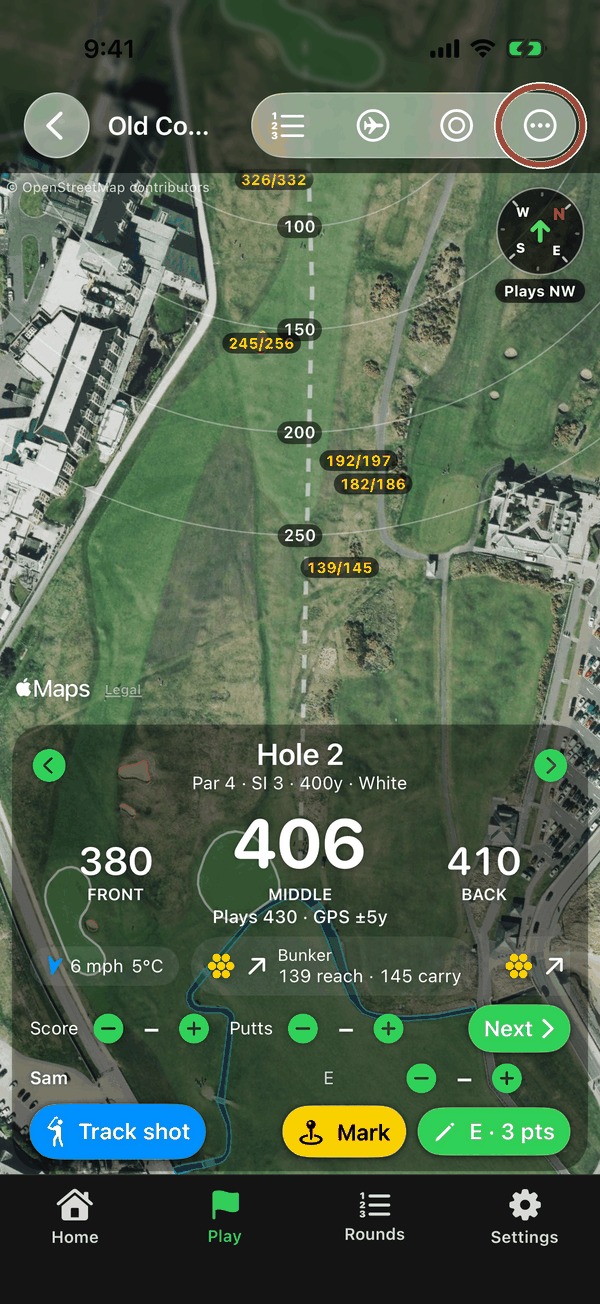
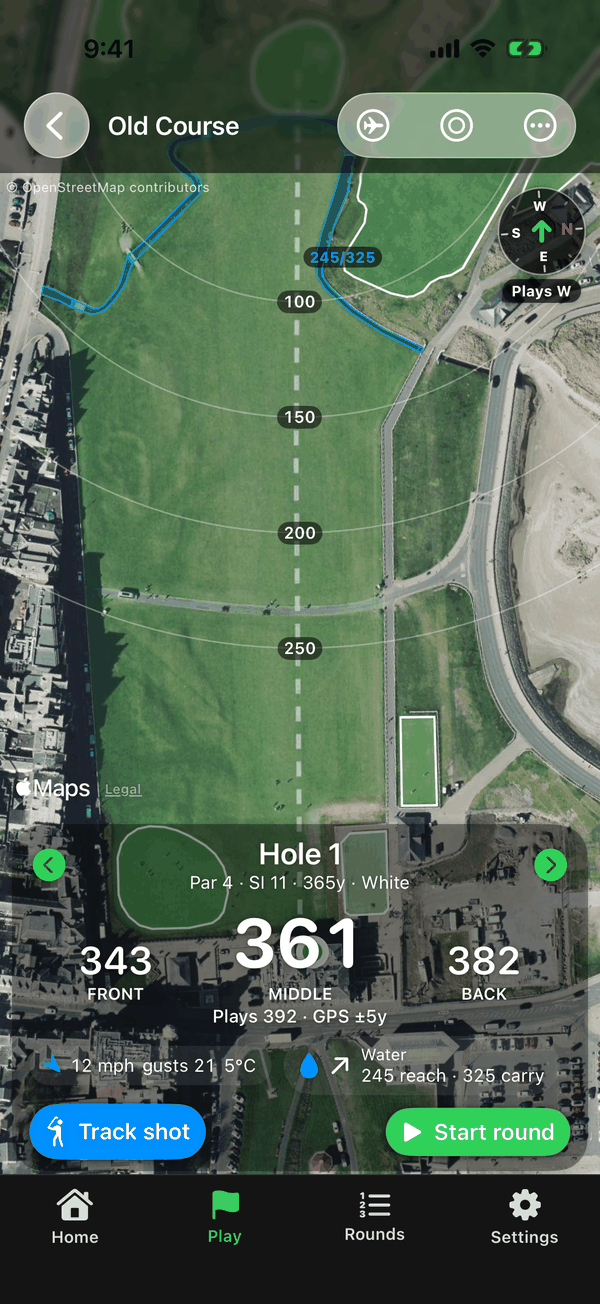
New Fix this hole screenshots and Remove step in the guide
- New pictures of the course menu and the Fix this hole screen (Add or fix and Remove tabs)
- New step: Remove something that isn't there
- Later steps renumbered

diff --git a/guide.html b/guide.html
@@ -422,7 +422,7 @@
           <div>
             <span class="step-num">Step 28</span>
             <h3>What's in it</h3>
-            <p><b>Go to the hole I'm on</b>, <b>Re-centre hole</b>, <b>Change tees</b>, <b>Set today's pin position</b> (tap the green where the flag is), <b>Hole note</b>, <b>Fix this hole</b>, <b>Favourite</b>, <b>Units</b>, <b>Find scorecard…</b>, <b>Refresh course data</b> and <b>Club website</b>.</p>
+            <p><b>Go to the hole I'm on</b>, <b>Re-centre hole</b>, <b>Change tees</b> (during a round), <b>Set today's pin position</b> (tap the green where the flag is), <b>Hole note</b>, <b>Fix this hole…</b>, <b>Favourite</b>, <b>Units</b>, <b>Find scorecard…</b>, <b>Refresh course data</b> and <b>Club website</b>.</p>
           </div>
         </div>
         <div class="step" data-expand tabindex="0" role="button" aria-expanded="false">
@@ -437,8 +437,19 @@
             <p>On <b>Add or fix</b>, there are two ways to correct the map:</p>
             <p><b>Where I'm standing:</b> stand on the spot and tap <b>I'm on the tee</b>, <b>I'm at the front / middle / back of the green</b> or <b>I'm in a bunker</b>. It works straight away on your phone, and once checked, every golfer gets your fix.</p>
             <p><b>On the map:</b> tap <b>Outline the green</b>, <b>Outline a bunker</b> or <b>Outline water</b>, then tap it on the map. The app traces its edge in yellow. Use <b>Smaller</b> or <b>Bigger</b> if it's not quite right, then <b>Save</b>. You can also move the tee or green, or add a bunker or water by tapping. These fixes stay on your phone.</p>
-            <p>On <b>Remove</b>, you'll see every bunker and pond on the hole, nearest the tee first (for example “Bunker · 212y from the tee · left”). Tap <b>Remove</b> next to anything that isn't really there. It disappears straight away, and once checked it's removed for every golfer.</p>
             <p><b>Reset this hole to map data</b> (at the bottom of Add or fix) undoes your changes, including anything you removed.</p>
+          </div>
+        </div>
+        <div class="step" data-expand tabindex="0" role="button" aria-expanded="false">
+          <div class="img-wrap">
+            <img src="images/guide/32b-fix-remove.png" alt="The Remove tab of Fix this hole" width="360" height="783" loading="lazy">
+            <span class="zoom-hint" aria-hidden="true"><svg viewBox="0 0 24 24" fill="none" stroke="currentColor" stroke-width="2.4" stroke-linecap="round"><circle cx="11" cy="11" r="7"/><path d="M21 21l-4.5-4.5"/><path class="zh-v" d="M11 8v6"/><path d="M8 11h6"/></svg></span>
+          </div>
+          <div>
+            <span class="step-num">Step 30</span>
+            <h3>Remove something that isn't there</h3>
+            <p>Switch to the <b>Remove</b> tab to see every bunker and pond on the hole, nearest the tee first (for example “Water · 285y from the tee · right”). Tap <b>Remove</b> next to anything that isn't really there. It disappears straight away, and once checked it's removed for every golfer.</p>
+            <p>Changed your mind? <b>Reset this hole to map data</b> on the Add or fix tab brings removed items back.</p>
           </div>
         </div>
       </div>
@@ -456,7 +467,7 @@
             <span class="zoom-hint" aria-hidden="true"><svg viewBox="0 0 24 24" fill="none" stroke="currentColor" stroke-width="2.4" stroke-linecap="round"><circle cx="11" cy="11" r="7"/><path d="M21 21l-4.5-4.5"/><path class="zh-v" d="M11 8v6"/><path d="M8 11h6"/></svg></span>
           </div>
           <div>
-            <span class="step-num">Step 30</span>
+            <span class="step-num">Step 31</span>
             <h3>Yardages on the Lock Screen <span class="tag">Premium</span></h3>
             <p>While a round is running, front, centre and back for the current hole show on the Lock Screen and in the Dynamic Island. To keep them updating while the phone is locked, turn on <b>Settings → Update yardages while locked</b> and allow location access “Always”.</p>
             <p class="tip">iPhone shows its location arrow while this is on, so turn it off in Settings when you don't need it. For a full round, start with a good charge, and think about using Battery saver.</p>
@@ -477,7 +488,7 @@
             <span class="zoom-hint" aria-hidden="true"><svg viewBox="0 0 24 24" fill="none" stroke="currentColor" stroke-width="2.4" stroke-linecap="round"><circle cx="11" cy="11" r="7"/><path d="M21 21l-4.5-4.5"/><path class="zh-v" d="M11 8v6"/><path d="M8 11h6"/></svg></span>
           </div>
           <div>
-            <span class="step-num">Step 31</span>
+            <span class="step-num">Step 32</span>
             <h3>Add a past round</h3>
             <p>On the Home screen tap <b>Add a past round</b>, or tap <b>+</b> at the top of the Rounds tab.</p>
           </div>
@@ -488,7 +499,7 @@
             <span class="zoom-hint" aria-hidden="true"><svg viewBox="0 0 24 24" fill="none" stroke="currentColor" stroke-width="2.4" stroke-linecap="round"><circle cx="11" cy="11" r="7"/><path d="M21 21l-4.5-4.5"/><path class="zh-v" d="M11 8v6"/><path d="M8 11h6"/></svg></span>
           </div>
           <div>
-            <span class="step-num">Step 32</span>
+            <span class="step-num">Step 33</span>
             <h3>Pick the course</h3>
             <p>Recent courses come first, then nearby ones, or search for it.</p>
           </div>
@@ -499,7 +510,7 @@
             <span class="zoom-hint" aria-hidden="true"><svg viewBox="0 0 24 24" fill="none" stroke="currentColor" stroke-width="2.4" stroke-linecap="round"><circle cx="11" cy="11" r="7"/><path d="M21 21l-4.5-4.5"/><path class="zh-v" d="M11 8v6"/><path d="M8 11h6"/></svg></span>
           </div>
           <div>
-            <span class="step-num">Step 33</span>
+            <span class="step-num">Step 34</span>
             <h3>Scan the scorecard</h3>
             <p>Set the date, tees and 18, Front 9 or Back 9. Then tap <b>Scan scorecard with camera</b>, or <b>Use a photo of the scorecard</b>. The numbers are read on your phone. Tap <b>Use as my scores</b> on your row (and <b>Use as pars</b> on the par row if needed).</p>
             <p class="tip">Lay the card flat in good light and fill the frame. Printed numbers read well; handwriting is hit and miss. (The picture was taken on a computer simulator, which has no camera, so only the photo option shows. On your iPhone you'll see both.)</p>
@@ -511,7 +522,7 @@
             <span class="zoom-hint" aria-hidden="true"><svg viewBox="0 0 24 24" fill="none" stroke="currentColor" stroke-width="2.4" stroke-linecap="round"><circle cx="11" cy="11" r="7"/><path d="M21 21l-4.5-4.5"/><path class="zh-v" d="M11 8v6"/><path d="M8 11h6"/></svg></span>
           </div>
           <div>
-            <span class="step-num">Step 34</span>
+            <span class="step-num">Step 35</span>
             <h3>Check and save</h3>
             <p>Or type the scores in with <b>–</b> and <b>+</b>. Birdies show green, bogeys orange and worse in red. Check every hole, fix anything misread, then tap <b>Save round</b>.</p>
           </div>
@@ -531,7 +542,7 @@
             <span class="zoom-hint" aria-hidden="true"><svg viewBox="0 0 24 24" fill="none" stroke="currentColor" stroke-width="2.4" stroke-linecap="round"><circle cx="11" cy="11" r="7"/><path d="M21 21l-4.5-4.5"/><path class="zh-v" d="M11 8v6"/><path d="M8 11h6"/></svg></span>
           </div>
           <div>
-            <span class="step-num">Step 35</span>
+            <span class="step-num">Step 36</span>
             <h3>Open the Rounds tab</h3>
             <p>Tap <b>Rounds</b> in the bar along the bottom. Your handicap index is at the top.</p>
           </div>
@@ -542,7 +553,7 @@
             <span class="zoom-hint" aria-hidden="true"><svg viewBox="0 0 24 24" fill="none" stroke="currentColor" stroke-width="2.4" stroke-linecap="round"><circle cx="11" cy="11" r="7"/><path d="M21 21l-4.5-4.5"/><path class="zh-v" d="M11 8v6"/><path d="M8 11h6"/></svg></span>
           </div>
           <div>
-            <span class="step-num">Step 36</span>
+            <span class="step-num">Step 37</span>
             <h3>Stats & trends <span class="tag">Premium</span></h3>
             <p>Tap <b>Stats & trends</b> for charts of your game.</p>
           </div>
@@ -553,7 +564,7 @@
             <span class="zoom-hint" aria-hidden="true"><svg viewBox="0 0 24 24" fill="none" stroke="currentColor" stroke-width="2.4" stroke-linecap="round"><circle cx="11" cy="11" r="7"/><path d="M21 21l-4.5-4.5"/><path class="zh-v" d="M11 8v6"/><path d="M8 11h6"/></svg></span>
           </div>
           <div>
-            <span class="step-num">Step 37</span>
+            <span class="step-num">Step 38</span>
             <h3>Your charts <span class="tag">Premium</span></h3>
             <p>See your handicap index, scores and putts over time.</p>
           </div>
@@ -564,7 +575,7 @@
             <span class="zoom-hint" aria-hidden="true"><svg viewBox="0 0 24 24" fill="none" stroke="currentColor" stroke-width="2.4" stroke-linecap="round"><circle cx="11" cy="11" r="7"/><path d="M21 21l-4.5-4.5"/><path class="zh-v" d="M11 8v6"/><path d="M8 11h6"/></svg></span>
           </div>
           <div>
-            <span class="step-num">Step 38</span>
+            <span class="step-num">Step 39</span>
             <h3>Fairways, greens and clubs <span class="tag">Premium</span></h3>
             <p>Scroll down for fairways and greens hit, and your average distance with each club.</p>
           </div>
@@ -575,7 +586,7 @@
             <span class="zoom-hint" aria-hidden="true"><svg viewBox="0 0 24 24" fill="none" stroke="currentColor" stroke-width="2.4" stroke-linecap="round"><circle cx="11" cy="11" r="7"/><path d="M21 21l-4.5-4.5"/><path class="zh-v" d="M11 8v6"/><path d="M8 11h6"/></svg></span>
           </div>
           <div>
-            <span class="step-num">Step 39</span>
+            <span class="step-num">Step 40</span>
             <h3>Open a round</h3>
             <p>Every round is listed, newest first. Tap one to open its scorecard. Swipe left on a round to delete it.</p>
           </div>
@@ -586,7 +597,7 @@
             <span class="zoom-hint" aria-hidden="true"><svg viewBox="0 0 24 24" fill="none" stroke="currentColor" stroke-width="2.4" stroke-linecap="round"><circle cx="11" cy="11" r="7"/><path d="M21 21l-4.5-4.5"/><path class="zh-v" d="M11 8v6"/><path d="M8 11h6"/></svg></span>
           </div>
           <div>
-            <span class="step-num">Step 40</span>
+            <span class="step-num">Step 41</span>
             <h3>Your handicap index</h3>
             <p>Enter the course rating and slope on a round's scorecard and it gets a score differential (each hole counts at most net double bogey). After 3 rated 18-hole rounds you get a handicap index, using the best differentials from your last 20 rounds, the World Handicap System way. 9-hole rounds count too once you have an index.</p>
             <p class="tip">It's a guide for your own use. Your official handicap is still the one held by your club.</p>
@@ -607,7 +618,7 @@
             <span class="zoom-hint" aria-hidden="true"><svg viewBox="0 0 24 24" fill="none" stroke="currentColor" stroke-width="2.4" stroke-linecap="round"><circle cx="11" cy="11" r="7"/><path d="M21 21l-4.5-4.5"/><path class="zh-v" d="M11 8v6"/><path d="M8 11h6"/></svg></span>
           </div>
           <div>
-            <span class="step-num">Step 41</span>
+            <span class="step-num">Step 42</span>
             <h3>Open Settings</h3>
             <p>Tap <b>Settings</b> in the bar along the bottom.</p>
           </div>
@@ -618,7 +629,7 @@
             <span class="zoom-hint" aria-hidden="true"><svg viewBox="0 0 24 24" fill="none" stroke="currentColor" stroke-width="2.4" stroke-linecap="round"><circle cx="11" cy="11" r="7"/><path d="M21 21l-4.5-4.5"/><path class="zh-v" d="M11 8v6"/><path d="M8 11h6"/></svg></span>
           </div>
           <div>
-            <span class="step-num">Step 42</span>
+            <span class="step-num">Step 43</span>
             <h3>Your settings</h3>
             <p>Choose <b>Appearance</b> (Match iPhone, Light or Dark), yards or metres, your playing handicap, <b>Auto-advance to next tee</b>, <b>3D terrain</b>, <b>Battery saver</b>, how see-through the yardage panel is, layup arcs and plays-like distances.</p>
           </div>
@@ -629,7 +640,7 @@
             <span class="zoom-hint" aria-hidden="true"><svg viewBox="0 0 24 24" fill="none" stroke="currentColor" stroke-width="2.4" stroke-linecap="round"><circle cx="11" cy="11" r="7"/><path d="M21 21l-4.5-4.5"/><path class="zh-v" d="M11 8v6"/><path d="M8 11h6"/></svg></span>
           </div>
           <div>
-            <span class="step-num">Step 43</span>
+            <span class="step-num">Step 44</span>
             <h3>My bag</h3>
             <p>Tick the clubs you carry and set your usual distance with each one.</p>
           </div>
@@ -640,7 +651,7 @@
             <span class="zoom-hint" aria-hidden="true"><svg viewBox="0 0 24 24" fill="none" stroke="currentColor" stroke-width="2.4" stroke-linecap="round"><circle cx="11" cy="11" r="7"/><path d="M21 21l-4.5-4.5"/><path class="zh-v" d="M11 8v6"/><path d="M8 11h6"/></svg></span>
           </div>
           <div>
-            <span class="step-num">Step 44</span>
+            <span class="step-num">Step 45</span>
             <h3>Back up your rounds</h3>
             <p>Tap <b>Export backup</b> to save your rounds, handicap history, shots, bag, notes, hole fixes and favourites to one file. Keep it in iCloud Drive or Files. Do this every so often, and before deleting the app or changing phones. <b>Restore from backup</b> loads it back.</p>
             <p class="tip">Your rounds are stored only on your iPhone, so deleting the app deletes them unless you've made a backup.</p>
